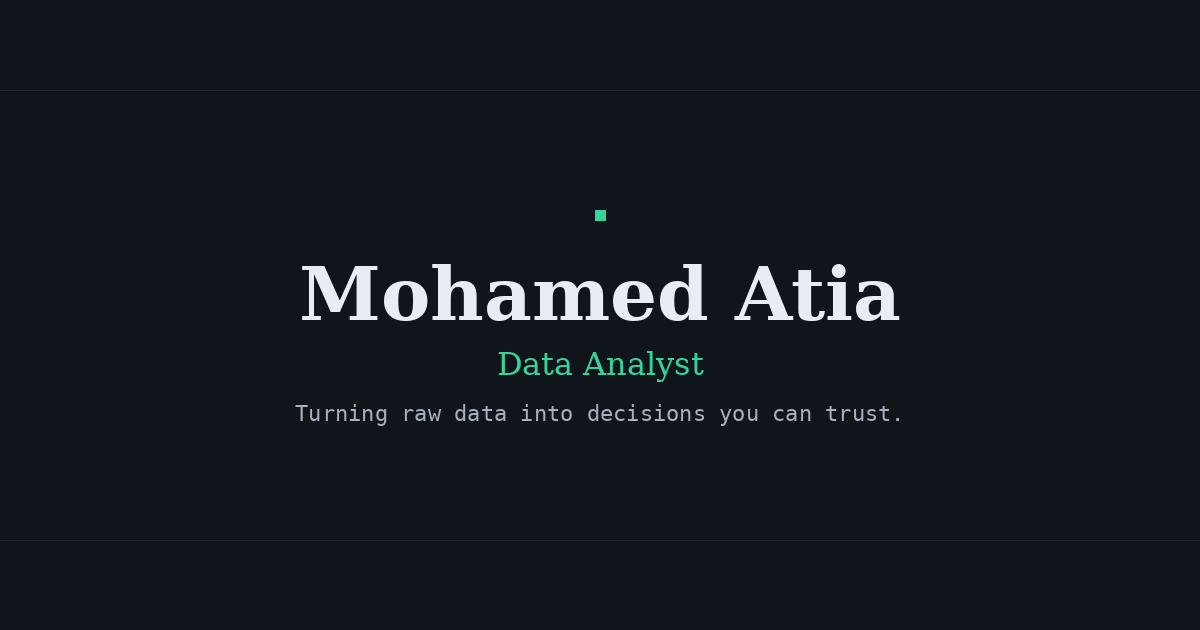
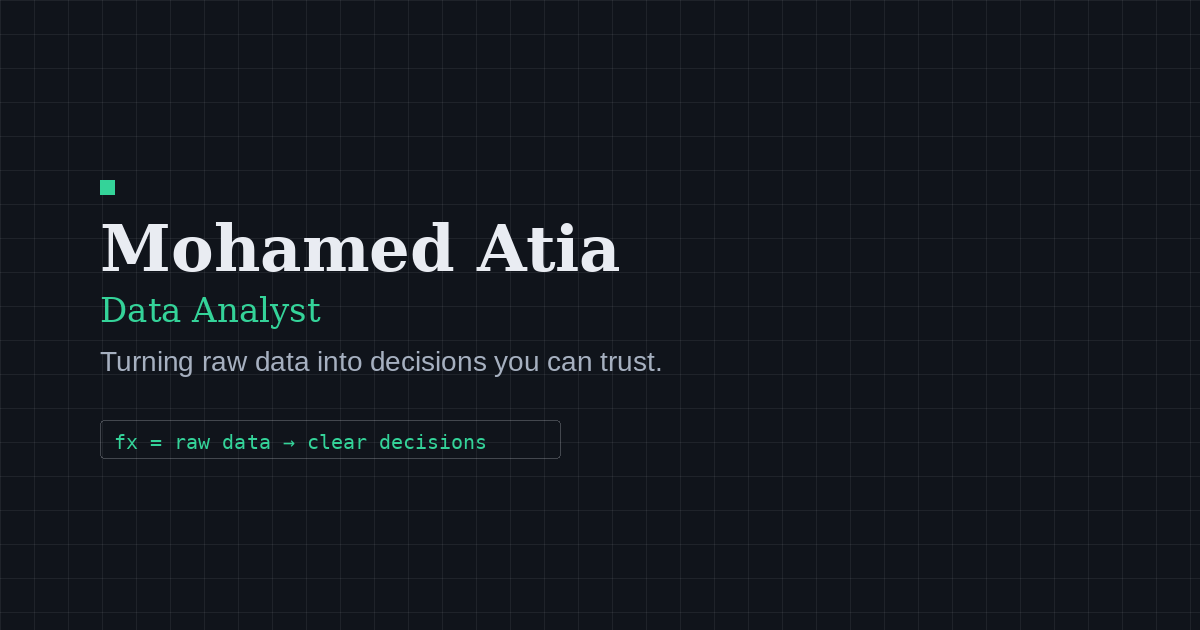
upgrading visuals in progress

diff --git a/index.html b/index.html
@@ -6,7 +6,7 @@
 <title>Mohamed Atia — Data Analyst Portfolio | Python, SQL, Power BI, Tableau</title>
 <meta name="description" content="Portfolio of Mohamed Atia, a data analyst trainee in Alexandria, Egypt with an accounting foundation. Python and SQL data cleaning, statistical analysis, and Power BI / Tableau dashboards that turn raw data into decisions." />
 <link rel="canonical" href="https://bshni.github.io/portfolio/" />
-<meta name="theme-color" content="#0C1B33" />
+<meta name="theme-color" content="#10141B" />
 <link rel="icon" href="assets/favicon.svg" type="image/svg+xml">
 
 <!-- Open Graph / WhatsApp, Facebook, Slack, Discord preview -->
@@ -56,15 +56,14 @@
   }
   .skip-link:focus{ left:16px; top:16px; }
   :root{
-    --paper: #0C1B33;
-    --paper-raised: #142949;
-    --ink: #F4EFE2;
-    --ink-soft: #B7C0D6;
-    --ink-faint: #7C88A6;
-    --accent: #E3A542;
-    --accent-soft: #362A13;
-    --accent-ink: #201502;
-    --rule: rgba(244,239,226,0.13);
+    --paper: #10141B;
+    --paper-raised: #1A212B;
+    --ink: #E9ECF2;
+    --ink-soft: #A6B0C0;
+    --ink-faint: #707A8C;
+    --accent: #34D399;
+    --accent-soft: #16302A;
+    --rule: rgba(255,255,255,0.11);
     --serif: 'Newsreader', Georgia, serif;
     --sans: 'Public Sans', -apple-system, BlinkMacSystemFont, sans-serif;
     --mono: 'JetBrains Mono', 'Courier New', monospace;
@@ -93,7 +92,7 @@
   /* ---------- NAV ---------- */
   header.site{
     position: sticky; top:0; z-index: 50;
-    background: rgba(12,27,51,0.92);
+    background: rgba(16,20,27,0.86);
     backdrop-filter: blur(6px);
     border-bottom: 1px solid var(--rule);
   }
@@ -111,7 +110,7 @@
   nav.links a{
     font-family: var(--mono); font-size: 12.5px; color: var(--ink-faint);
     text-decoration:none; padding: 8px 14px 7px; margin-bottom:-1px;
-    border: 1px solid var(--rule); border-bottom:none; background: rgba(244,239,226,0.03);
+    border: 1px solid var(--rule); border-bottom:none; background: rgba(233,236,242,0.03);
     border-radius: 5px 5px 0 0; transition: color 0.15s ease, background-color 0.15s ease, border-color 0.15s ease;
   }
   nav.links a:hover{ color: var(--ink); background: var(--paper-raised); border-color: var(--rule); }
@@ -125,17 +124,21 @@
     width:38px; height:34px; cursor:pointer; padding:0; margin-bottom:10px;
     flex-direction:column; align-items:center; justify-content:center; gap:4px;
   }
-  .nav-toggle span{ width:18px; height:2px; background:var(--ink); display:block; }
+  .nav-toggle span{ width:18px; height:2px; background:var(--ink); display:block; transition: transform 0.2s ease, opacity 0.2s ease; }
+  .nav-toggle[aria-expanded="true"] span:nth-child(1){ transform: translateY(6px) rotate(45deg); }
+  .nav-toggle[aria-expanded="true"] span:nth-child(2){ opacity:0; }
+  .nav-toggle[aria-expanded="true"] span:nth-child(3){ transform: translateY(-6px) rotate(-45deg); }
 
   @media (max-width: 720px){
     nav.links{
       position:absolute; top:100%; left:0; right:0;
       background: var(--paper); border-bottom:1px solid var(--rule);
-      flex-direction:column; gap:0; padding: 8px 0;
-      display:none;
+      flex-direction:column; gap:0; padding: 0;
+      display:flex; max-height:0; overflow:hidden; opacity:0;
+      transition: max-height 0.25s ease, opacity 0.2s ease, padding 0.25s ease;
     }
-    nav.links.open{ display:flex; }
-    nav.links a{ padding: 12px 28px; border-top:1px solid var(--rule); }
+    nav.links.open{ max-height:320px; opacity:1; padding: 8px 0; }
+    nav.links a{ padding: 12px 28px; border-top:1px solid var(--rule); border-radius:0; margin-bottom:0; }
     .nav-toggle{ display:flex; }
   }
 
@@ -179,7 +182,7 @@
     display:inline-block; border: 1px solid transparent;
   }
   .btn-primary{ background: var(--ink); color: var(--paper); }
-  .btn-primary:hover{ background: var(--accent); color: var(--accent-ink); }
+  .btn-primary:hover{ background: var(--accent); }
   .btn-ghost{ border-color: var(--ink); color: var(--ink); }
   .btn-ghost:hover{ border-color: var(--accent); color: var(--accent); }
 
@@ -198,14 +201,35 @@
   .stat-row{
     display:flex; align-items:baseline; gap:14px;
     padding: 16px 18px; border-bottom: 1px solid var(--rule);
+    border-left: 2px solid transparent; margin-left:-2px;
+    transition: background-color 0.15s ease, border-left-color 0.15s ease;
   }
   .stat-row:last-child{ border-bottom:none; }
+  .stat-row:hover{ background: var(--accent-soft); border-left-color: var(--accent); }
+  .stat-row:hover .cell-ref{ color: var(--accent); }
   .cell-ref{
     font-family: var(--mono); font-size: 12px; color: var(--ink-faint);
-    width: 24px; flex-shrink:0;
+    width: 24px; flex-shrink:0; transition: color 0.15s ease;
   }
   .stat-num{ font-family: var(--serif); font-weight:600; font-size: 22px; color: var(--ink); }
   .stat-label{ font-size: 13px; color: var(--ink-soft); }
+
+  /* ---------- SCROLL PROGRESS ---------- */
+  .progress-bar{
+    position: fixed; top:0; left:0; height:2px; width:0%;
+    background: var(--accent); z-index: 60; transition: width 0.1s linear;
+  }
+
+  /* ---------- SCROLL REVEAL ---------- */
+  /* Visible by default — content must never depend on JS to be readable.
+     Animation only applies once html.js-ready confirms scripting works. */
+  .reveal{ opacity:1; transform:none; }
+  html.js-ready .reveal{ opacity:0; transform: translateY(18px); transition: opacity 0.6s ease, transform 0.6s ease; }
+  html.js-ready .reveal.in-view{ opacity:1; transform:none; }
+  .stagger > *{ transition-delay: calc(var(--i, 0) * 70ms); }
+  @media (prefers-reduced-motion: reduce){
+    html.js-ready .reveal, html.js-ready .stagger > *{ opacity:1 !important; transform:none !important; transition:none !important; }
+  }
 
   /* ---------- SECTIONS ---------- */
   section{ padding: 56px 0; border-top: 1px solid var(--rule); }
@@ -368,6 +392,7 @@
 </head>
 <body>
 
+<div class="progress-bar" id="progressBar"></div>
 <a class="skip-link" href="#top">Skip to content</a>
 
 <header class="site">
@@ -418,8 +443,8 @@
   <!-- ============ ABOUT + EDUCATION ============ -->
   <section id="about">
     <div class="wrap">
-      <h2 class="section-title"><span class="section-ref">B1</span>About</h2>
-      <div class="about-grid">
+      <h2 class="section-title reveal"><span class="section-ref">B1</span>About</h2>
+      <div class="about-grid reveal">
         <picture>
             <source srcset="assets/img/mohamed-atia.webp" type="image/webp">
             <img class="about-photo" src="assets/img/mohamed-atia.jpg" alt="Mohamed Atia"
@@ -448,25 +473,25 @@
   <!-- ============ SKILLS ============ -->
   <section id="skills">
     <div class="wrap">
-      <h2 class="section-title"><span class="section-ref">B2</span>Skills &amp; tools</h2>
-      <div class="skills-grid">
-        <div class="skill-cell">
+      <h2 class="section-title reveal"><span class="section-ref">B2</span>Skills &amp; tools</h2>
+      <div class="skills-grid stagger">
+        <div class="skill-cell reveal" style="--i:0">
           <h3><svg viewBox="0 0 24 24" fill="none" stroke="currentColor" stroke-width="1.6" stroke-linecap="round" stroke-linejoin="round"><path d="M9 5 3 12l6 7"/><path d="M15 5l6 7-6 7"/></svg>Programming &amp; analytics</h3>
           <p>Python, Pandas, SQL, exploratory data analysis, statistical analysis, data cleaning, feature engineering</p>
         </div>
-        <div class="skill-cell">
+        <div class="skill-cell reveal" style="--i:1">
           <h3><svg viewBox="0 0 24 24" fill="none" stroke="currentColor" stroke-width="1.6" stroke-linecap="round" stroke-linejoin="round"><path d="M4 20V10M10 20V4M16 20v-7M22 20H2"/></svg>BI &amp; visualization</h3>
           <p>Microsoft Power BI (Power Query, DAX, data modeling), Tableau, data storytelling, KPI reporting</p>
         </div>
-        <div class="skill-cell">
+        <div class="skill-cell reveal" style="--i:2">
           <h3><svg viewBox="0 0 24 24" fill="none" stroke="currentColor" stroke-width="1.6" stroke-linecap="round" stroke-linejoin="round"><ellipse cx="12" cy="6" rx="7.5" ry="2.6"/><path d="M4.5 6v6c0 1.4 3.4 2.6 7.5 2.6s7.5-1.2 7.5-2.6V6"/><path d="M4.5 12v6c0 1.4 3.4 2.6 7.5 2.6s7.5-1.2 7.5-2.6v-6"/></svg>Data engineering</h3>
           <p>SQL joins, common table expressions, stored procedures, views, database design</p>
         </div>
-        <div class="skill-cell">
+        <div class="skill-cell reveal" style="--i:3">
           <h3><svg viewBox="0 0 24 24" fill="none" stroke="currentColor" stroke-width="1.6" stroke-linecap="round" stroke-linejoin="round"><rect x="3.5" y="7.5" width="17" height="11" rx="2"/><path d="M8 7.5V6a2 2 0 0 1 2-2h4a2 2 0 0 1 2 2v1.5"/><path d="M3.5 12.5h17"/></svg>Business &amp; AI</h3>
           <p>Accounting, financial reporting, data governance, generative AI, large language models (LLMs), prompt engineering</p>
         </div>
-        <div class="skill-cell">
+        <div class="skill-cell reveal" style="--i:4">
           <h3><svg viewBox="0 0 24 24" fill="none" stroke="currentColor" stroke-width="1.6" stroke-linecap="round" stroke-linejoin="round"><path d="M7 3v4M7 17v4M12 3v18M17 3v4M17 17v4"/><rect x="4" y="7" width="6" height="10" rx="1.5"/><rect x="14" y="7" width="6" height="10" rx="1.5"/></svg>Tools &amp; platforms</h3>
           <p>Git, GitHub, Jupyter Notebook, Microsoft Excel, Microsoft 365, Google Sheets</p>
         </div>
@@ -477,9 +502,9 @@
   <!-- ============ WORK EXPERIENCE ============ -->
   <section id="experience">
     <div class="wrap">
-      <h2 class="section-title"><span class="section-ref">B3</span>Work experience</h2>
+      <h2 class="section-title reveal"><span class="section-ref">B3</span>Work experience</h2>
 
-      <div class="job">
+      <div class="job reveal" style="--i:0">
         <div class="job-head">
           <h3>Data Analyst Trainee — DEPI Round 5</h3>
           <span>Jul 2026 – Present</span>
@@ -494,7 +519,7 @@
         </ul>
       </div>
 
-      <div class="job">
+      <div class="job reveal" style="--i:1">
         <div class="job-head">
           <h3>Internship Trainee — CIB Summer Internship Program</h3>
           <span>Sep – Nov 2024</span>
@@ -511,9 +536,9 @@
   <!-- ============ OFFERED SERVICES ============ -->
   <section id="services">
     <div class="wrap">
-      <h2 class="section-title"><span class="section-ref">B4</span>What I offer</h2>
+      <h2 class="section-title reveal"><span class="section-ref">B4</span>What I offer</h2>
 
-      <div class="service-row">
+      <div class="service-row reveal" style="--i:0">
         <div>
           <h3><svg viewBox="0 0 24 24" fill="none" stroke="currentColor" stroke-width="1.6" stroke-linecap="round" stroke-linejoin="round"><path d="M6 3v6a3 3 0 0 0 3 3h6a3 3 0 0 0 3-3V3"/><path d="M12 12v9"/><path d="M8 21h8"/></svg>Data cleaning &amp; pipelines</h3>
           <span class="service-tag">Python · Pandas</span>
@@ -521,7 +546,7 @@
         <p>Messy spreadsheets, inconsistent formats, missing values, duplicate rows. I build reusable pipelines that clean your data once and keep it clean, with proper handling for the edge cases that break a one-off script.</p>
       </div>
 
-      <div class="service-row">
+      <div class="service-row reveal" style="--i:1">
         <div>
           <h3><svg viewBox="0 0 24 24" fill="none" stroke="currentColor" stroke-width="1.6" stroke-linecap="round" stroke-linejoin="round"><rect x="3.5" y="4" width="17" height="16" rx="2"/><path d="M8 10v6M12 7v9M16 13v3"/></svg>Dashboards &amp; reporting</h3>
           <span class="service-tag">Power BI · Tableau</span>
@@ -529,7 +554,7 @@
         <p>Dashboards that surface the numbers that actually matter to your business, plus automated KPI reporting so you're not rebuilding the same report by hand every month.</p>
       </div>
 
-      <div class="service-row">
+      <div class="service-row reveal" style="--i:2">
         <div>
           <h3><svg viewBox="0 0 24 24" fill="none" stroke="currentColor" stroke-width="1.6" stroke-linecap="round" stroke-linejoin="round"><circle cx="10.5" cy="10.5" r="6.5"/><path d="m20 20-4.8-4.8"/></svg>Analysis &amp; insight</h3>
           <span class="service-tag">SQL · Statistics</span>
@@ -542,16 +567,16 @@
   <!-- ============ PROJECTS ============ -->
   <section id="projects">
     <div class="wrap">
-      <h2 class="section-title"><span class="section-ref">B5</span>Featured project</h2>
-      <div class="project-card">
+      <h2 class="section-title reveal"><span class="section-ref">B5</span>Featured project</h2>
+      <div class="project-card reveal">
         <h3>Superstore Retail Analytics</h3>
         <p class="project-sub">An end-to-end Python pipeline that turned 9,994 raw retail transactions into $284K in identified profit drivers and a pricing recommendation for three loss-making sub-categories.</p>
 
-        <div class="metrics">
-          <div class="metric"><div class="num">$2.29M</div><div class="lab">total sales analyzed</div></div>
-          <div class="metric"><div class="num">$284K</div><div class="lab">total profit, 12.4% margin</div></div>
-          <div class="metric"><div class="num">9,994</div><div class="lab">orders, 21 columns</div></div>
-          <div class="metric"><div class="num">11</div><div class="lab">visualizations + 1 report</div></div>
+        <div class="metrics stagger">
+          <div class="metric reveal" style="--i:0"><div class="num">$2.29M</div><div class="lab">total sales analyzed</div></div>
+          <div class="metric reveal" style="--i:1"><div class="num">$284K</div><div class="lab">total profit, 12.4% margin</div></div>
+          <div class="metric reveal" style="--i:2"><div class="num">9,994</div><div class="lab">orders, 21 columns</div></div>
+          <div class="metric reveal" style="--i:3"><div class="num">11</div><div class="lab">visualizations + 1 report</div></div>
         </div>
 
         <div class="shot-frame">
@@ -585,8 +610,8 @@
   <!-- ============ ACHIEVEMENTS ============ -->
   <section id="achievements">
     <div class="wrap">
-      <h2 class="section-title"><span class="section-ref">B6</span>Achievements &amp; certifications</h2>
-      <div class="chip-row">
+      <h2 class="section-title reveal"><span class="section-ref">B6</span>Achievements &amp; certifications</h2>
+      <div class="chip-row reveal">
         <span class="chip highlight"><img class="chip-logo" src="assets/logos/depi.jpg" alt="" width="18" height="18" loading="lazy" decoding="async">DEPI Round 5 — national scholarship selection</span>
         <span class="chip"><img class="chip-logo" src="assets/logos/ibm-data-fundamentals.jpg" alt="" width="18" height="18" loading="lazy" decoding="async">IBM Data Fundamentals, IBM SkillsBuild</span>
         <span class="chip"><img class="chip-logo" src="assets/logos/datacamp-sql.jpg" alt="" width="18" height="18" loading="lazy" decoding="async">Associate Data Engineer in SQL, DataCamp</span>
@@ -594,7 +619,7 @@
         <span class="chip"><img class="chip-logo" src="assets/logos/datacamp-data-literacy.jpg" alt="" width="18" height="18" loading="lazy" decoding="async">Data Literacy Certificate, DataCamp</span>
         <span class="chip"><img class="chip-logo" src="assets/logos/mckinsey-forward.jpg" alt="" width="18" height="18" loading="lazy" decoding="async">McKinsey Forward Program</span>
       </div>
-      <div class="chip-row" style="margin-top:12px;">
+      <div class="chip-row reveal" style="margin-top:12px;">
         <span class="chip"><img class="chip-logo" src="assets/logos/zoho-books.jpg" alt="" width="18" height="18" loading="lazy" decoding="async">Zoho Books Basic to Advance, Udemy</span>
         <span class="chip"><img class="chip-logo" src="assets/logos/ubuntu-linux.jpg" alt="" width="18" height="18" loading="lazy" decoding="async">Ubuntu Linux Essentials, MaharaTech/ITI</span>
         <span class="chip"><img class="chip-logo" src="assets/logos/ai-for-everyone.jpg" alt="" width="18" height="18" loading="lazy" decoding="async">AI for Everyone, MaharaTech/ITI</span>
@@ -602,7 +627,7 @@
         <span class="chip"><img class="chip-logo" src="assets/logos/sas-data-literacy.jpg" alt="" width="18" height="18" loading="lazy" decoding="async">Data Literacy in Practice, SAS</span>
         <span class="chip"><img class="chip-logo" src="assets/logos/ef-set.jpg" alt="" width="18" height="18" loading="lazy" decoding="async">EF SET C1 English, EF SET</span>
       </div>
-      <div class="chip-row" style="margin-top:12px;">
+      <div class="chip-row reveal" style="margin-top:12px;">
         <span class="chip">HSBC Job Simulation, Forage</span>
         <span class="chip">Financial Literacy for Youth, Egyptian Banking Institute</span>
         <span class="chip">Digital Literacy &amp; Productivity, LinkedIn Learning</span>
@@ -618,8 +643,8 @@
   <!-- ============ TESTIMONIALS ============ -->
   <section id="testimonials">
     <div class="wrap">
-      <h2 class="section-title"><span class="section-ref">B7</span>Testimonials</h2>
-      <div class="empty-state">
+      <h2 class="section-title reveal"><span class="section-ref">B7</span>Testimonials</h2>
+      <div class="empty-state reveal">
         <p class="lead">This section is still empty — on purpose.</p>
         <p>I'd rather leave it blank than fill it with something that isn't real. If we work together, I'll ask if you're willing to leave a few lines here.</p>
       </div>
@@ -628,9 +653,9 @@
 
   <!-- ============ CONTACT / CTA ============ -->
   <section id="contact">
-    <div class="wrap contact-grid">
+    <div class="wrap contact-grid reveal">
       <div>
-        <h2 class="section-title"><span class="section-ref">B8</span>Let's work together</h2>
+        <h2 class="section-title reveal"><span class="section-ref">B8</span>Let's work together</h2>
         <p style="color:var(--ink-soft); max-width:48ch; margin-top:-14px;">If you need a data set turned into an actual answer, or a dashboard built and kept up to date, send me a message — I usually reply within a day.</p>
         <p class="formula">=SUM( your data , my analysis ) → a decision you can trust</p>
       </div>
@@ -681,6 +706,43 @@
       if (visible.length) setActive(visible[0].target.id);
     }, { rootMargin: '-45% 0px -50% 0px', threshold: 0 });
     sections.forEach(s => observer.observe(s));
+  }
+
+  // Scroll progress bar
+  const progressBar = document.getElementById('progressBar');
+  const updateProgress = () => {
+    const h = document.documentElement;
+    const scrolled = h.scrollTop;
+    const max = h.scrollHeight - h.clientHeight;
+    progressBar.style.width = max > 0 ? `${(scrolled / max) * 100}%` : '0%';
+  };
+  document.addEventListener('scroll', updateProgress, { passive: true });
+  updateProgress();
+
+  // Reveal-on-scroll for cards and section titles.
+  // Safety-first: the page must render fully readable even if this fails.
+  const revealEls = document.querySelectorAll('.reveal');
+  if ('IntersectionObserver' in window && revealEls.length) {
+    document.documentElement.classList.add('js-ready');
+    let revealObserver;
+    try {
+      revealObserver = new IntersectionObserver((entries, obs) => {
+        entries.forEach(entry => {
+          if (entry.isIntersecting) {
+            entry.target.classList.add('in-view');
+            obs.unobserve(entry.target);
+          }
+        });
+      }, { threshold: 0.12, rootMargin: '0px 0px -60px 0px' });
+      revealEls.forEach(el => revealObserver.observe(el));
+    } catch (e) {
+      document.documentElement.classList.remove('js-ready');
+    }
+    // Hard safety net: whatever happens with the observer, never leave
+    // content invisible for more than a couple of seconds.
+    setTimeout(() => {
+      revealEls.forEach(el => el.classList.add('in-view'));
+    }, 2500);
   }
 </script>
 
